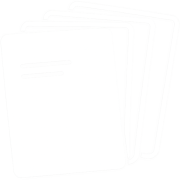
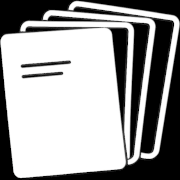
poprawki_v1

diff --git a/index.html b/index.html
@@ -5,7 +5,11 @@
     <link rel="icon" type="image/x-icon" href="/favicon.ico" />
     <link rel="icon" type="image/png" href="/favicon-32.png" />
     <link rel="icon" type="image/png" href="/favicon-16.png" />
-    <link rel="apple-touch-icon" href="/apple-touch-icon.png" />
+    <link rel="apple-touch-icon" sizes="180x180" href="/apple-touch-icon.png" />
+    <meta name="apple-mobile-web-app-capable" content="yes" />
+    <meta name="apple-mobile-web-app-status-bar-style" content="black-translucent" />
+    <meta name="apple-mobile-web-app-title" content="Wyceny" />
+
     <meta name="viewport" content="width=device-width, initial-scale=1.0" />
     <title>wyceny-app</title>
   </head>